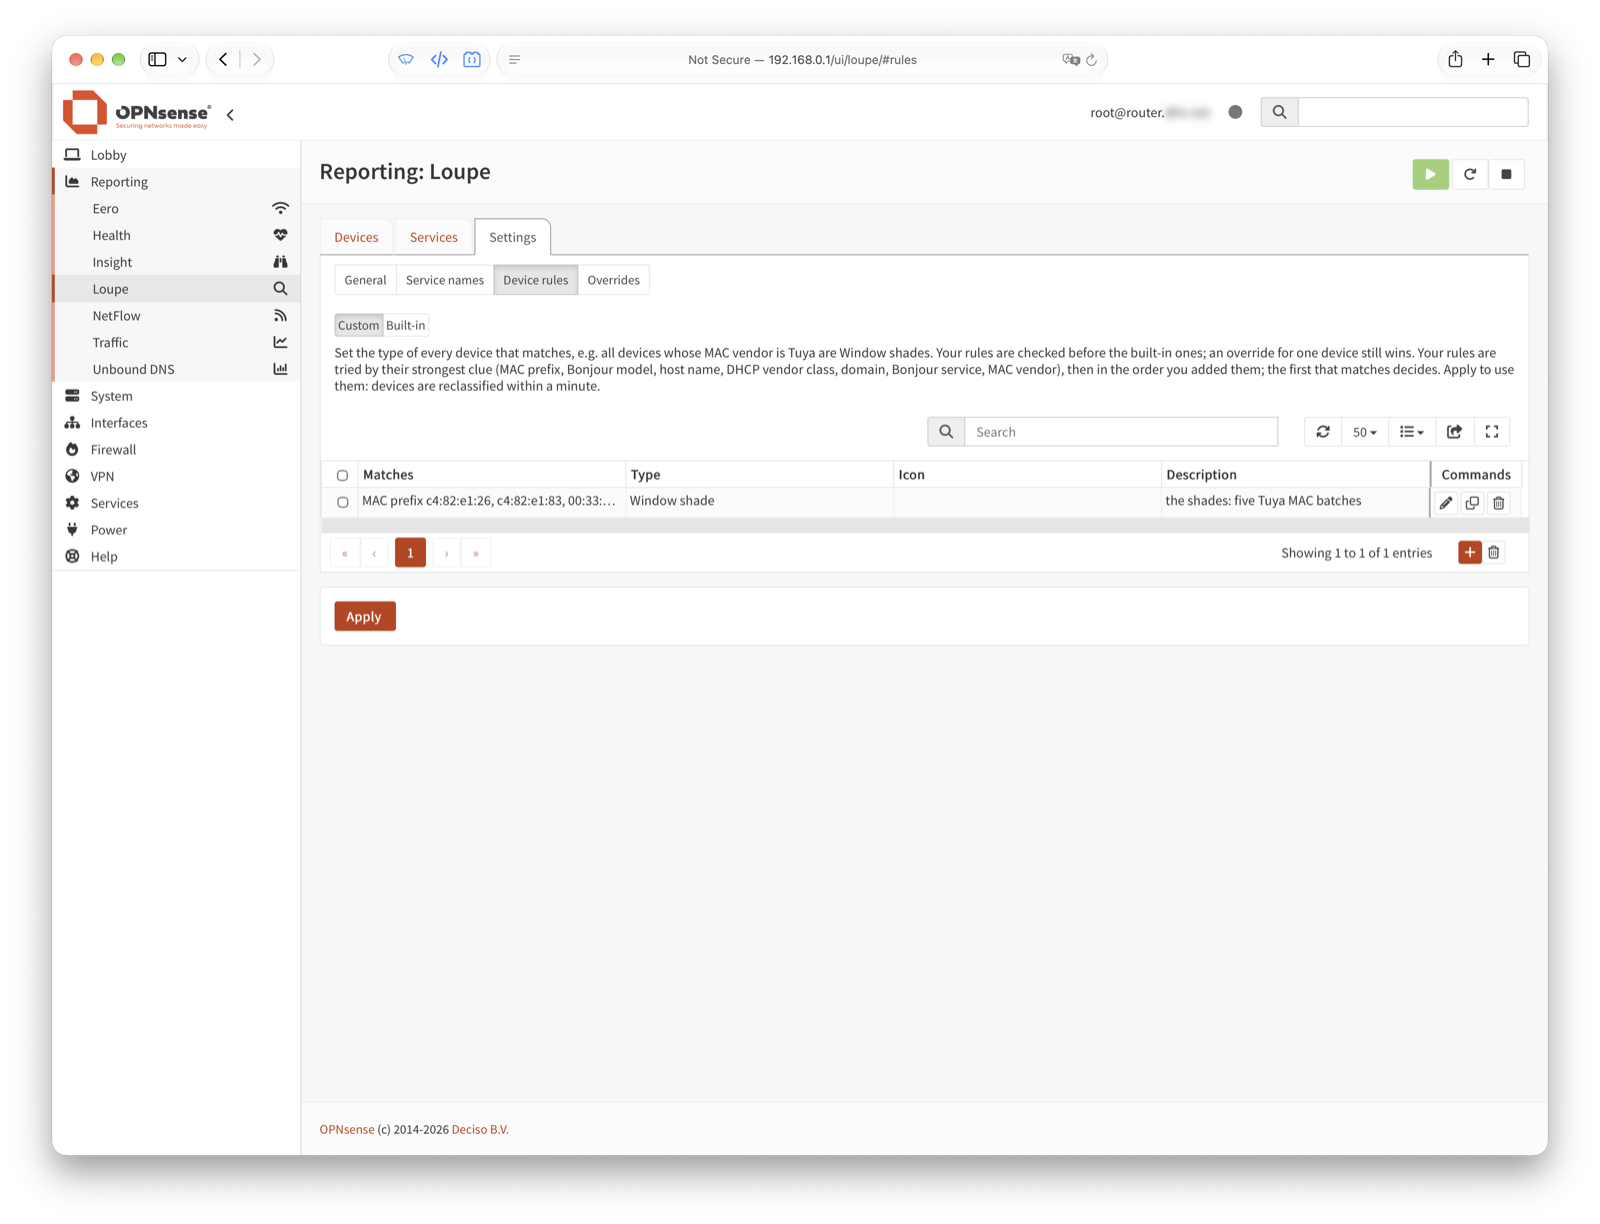
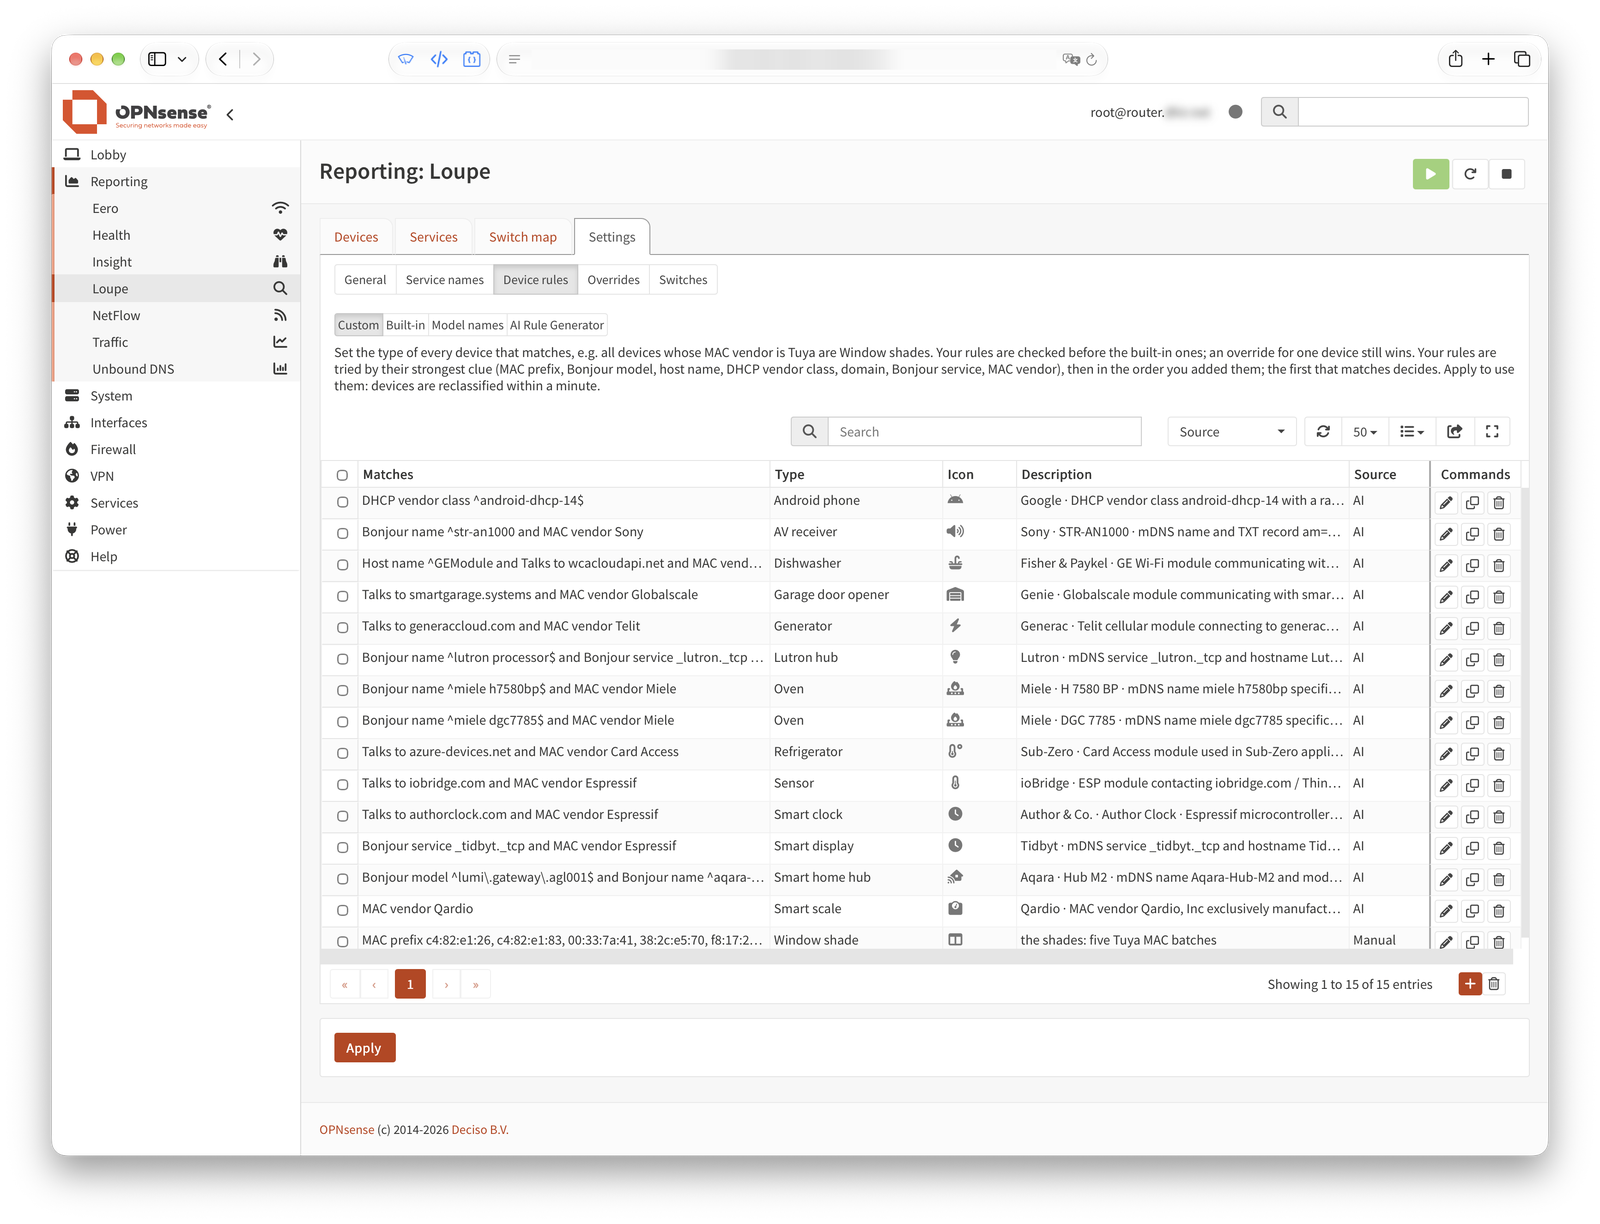
README: new screenshots of the Switch map, Settings Switches and Device rules

diff --git a/README.md b/README.md
@@ -29,7 +29,7 @@ When possible, devices are identified and named automatically. A layered, eviden
 
 ## Screenshots
 
-All from a real home network, with people's names blurred. The address bar shows the router's IP address, not its host name, on purpose: it keeps the domain out of the pictures.
+All from a real home network, with people's names blurred. The address bar shows the router's IP address, or is blurred, on purpose: it keeps the domain out of the pictures.
 
 **A device**: its traffic over time, and each service it used, opening to its sites.
 
@@ -51,7 +51,13 @@ All from a real home network, with people's names blurred. The address bar shows
 
 ![Overrides: names and types set by hand](docs/images/overrides.png)
 
-![Device rules: a custom rule typing five MAC prefixes as window shades](docs/images/rules.png)
+![Device rules: custom rules for appliances and other devices, most from the AI Rule Generator, one typing five MAC prefixes as window shades](docs/images/rules.png)
+
+**Switch map** (optional): which device is on which port of the router and your managed switches, with each eero's Wi-Fi clients under it.
+
+![Switch map: a section for the router and each switch, listing each port's speed, devices, addresses and traffic](docs/images/switchmap.png)
+
+![Settings, Switches: the listed switches with their port counts, addresses and last read](docs/images/switches.png)
 
 ## How it works
 
